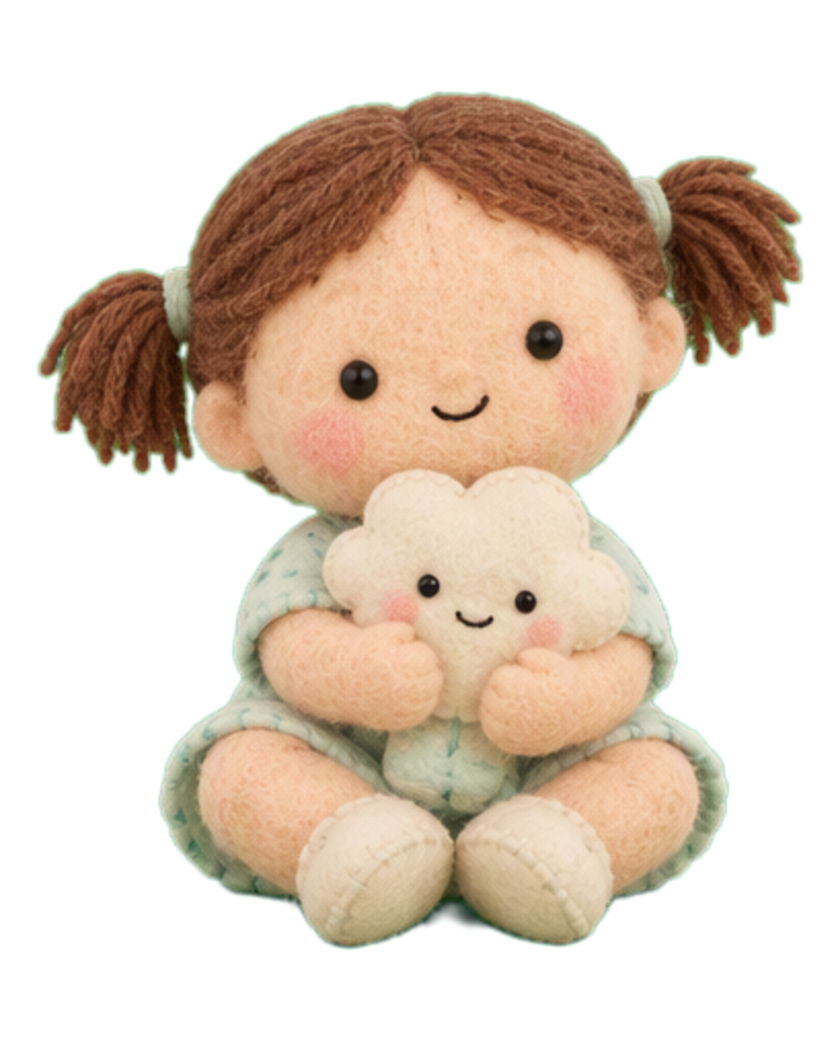
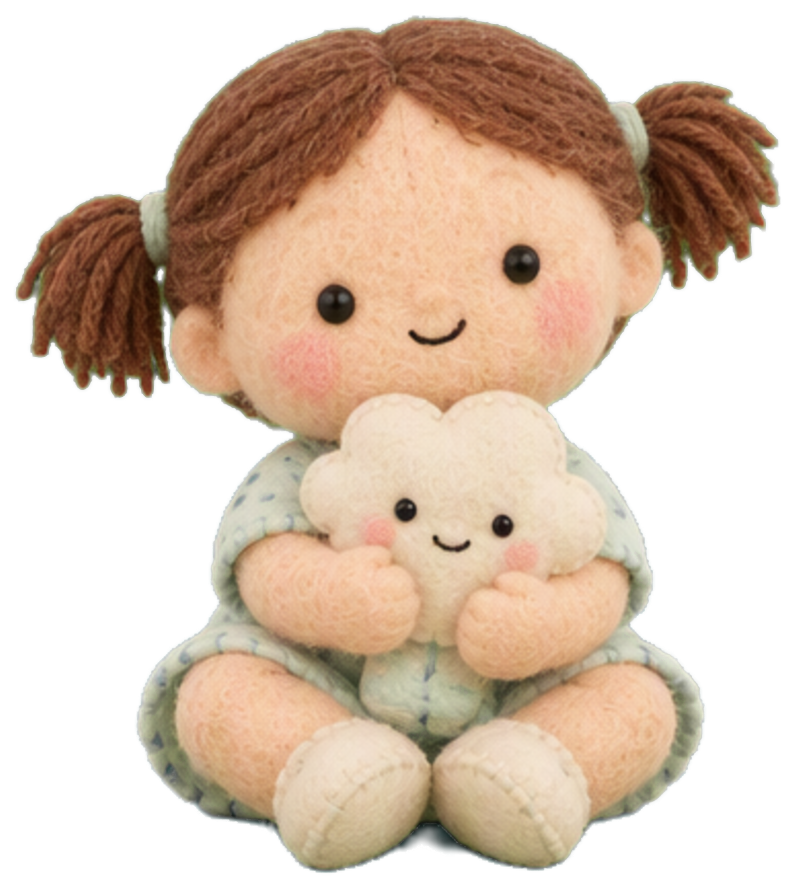
fix(assets): 角色图归一化去绿边+裁留白，修正浮空；睡姿按床面定位；恢复护士
- 新增 tooling/normalize.mjs（去绿边 + 裁不透明包围盒）
- 24 张角色图统一处理，图底边即脚底，同一基线
- 新增 stand="bed" 版式，cloud/drip 页睡姿摆到床上
- needle 页恢复 nurse__wave + kid:stand
- 封面三人组 bottom 回到 129（舞台地面线）

diff --git a/web/js/app.js b/web/js/app.js
@@ -316,9 +316,10 @@ function imgTag(asset, cls = '') {
   return `<img class="${cls}" src="${asset.src}" alt="${escapeHTML(asset.alt || '')}" loading="lazy" />`;
 }
 
-function propsHTML(props) {
+function propsHTML(props, stand) {
   if (!props?.length) return '';
-  return `<div class="page__props">${props.map((p) => imgTag(p)).join('')}</div>`;
+  const cls = stand ? ` page__props--${stand}` : '';
+  return `<div class="page__props${cls}">${props.map((p) => imgTag(p)).join('')}</div>`;
 }
 
 function pageHTML(page, book) {
@@ -364,7 +365,7 @@ function pageHTML(page, book) {
     const standCls = page.stand === 'high' ? ' page--stand-high' : '';
     return `<div class="page page--full${standCls}" data-density="soft">
       <div class="page__inner">
-        <div class="page__img">${imgTag(page.image)}${propsHTML(page.props)}</div>
+        <div class="page__img">${imgTag(page.image)}${propsHTML(page.props, page.stand)}</div>
         <div class="page__caption">
           <h3 class="page__title">${escapeHTML(page.title)}</h3>
           <p class="page__text">${escapeHTML(page.text)}</p>
@@ -391,7 +392,7 @@ function pageHTML(page, book) {
        </div>`
     : '';
 
-  const imageHTML = `<div class="page__img page__img--h">${imgTag(page.image)}${propsHTML(page.props)}</div>`;
+  const imageHTML = `<div class="page__img page__img--h">${imgTag(page.image)}${propsHTML(page.props, page.stand)}</div>`;
 
   if (page.layout === 'image_left') {
     return `<div class="page page--imgleft" data-density="soft">

diff --git a/web/css/book.css b/web/css/book.css
@@ -97,6 +97,25 @@
 
 .page__props img:nth-child(2) { height: 92%; max-width: 46%; }
 
+/* 床面定位：睡姿立牌摆在床上，不按脚底贴边（cloud/drip 页用 stand="bed"） */
+.page__props--bed {
+  inset: 0;
+  height: auto;
+  align-items: flex-start;
+  justify-content: center;
+  padding: 0;
+}
+
+.page__props--bed img {
+  height: auto;
+  width: 56%;
+  max-width: 56%;
+  margin-top: 12%;
+  margin-left: 12%;
+  object-position: center top;
+  transform: none;
+}
+
 /* 全幅页：双立牌并排站在文字卡上方，脚被卡片自然遮住 */
 .page--full .page__props { bottom: 26%; }
 
@@ -240,7 +259,7 @@
 .page__cover-cast {
   position: absolute;
   left: 20px; right: 20px;
-  bottom: 152px;
+  bottom: 129px;
   z-index: 2;
   display: flex;
   align-items: flex-end;

diff --git a/HANDOFF.md b/HANDOFF.md
@@ -474,3 +474,22 @@ text/evidence/colophon/badge all match headings; flip bar label too. Panel conso
 - 封面三人组：height 148 → 176，bottom 129 → 152（脚踩在标题牌上沿，不再被牌面吞掉）。
 
 未用上的素材：`dad__*`、`friend__*`、`villain_dino__back/shy/sleep`。要用 dad 需要再加一个"家长性别"选择 + `parent:*` 展开规则。
+
+---
+
+## 19. 修正（Kestrel）：人物浮空 / 床上没人 / 护士消失
+
+三个症状，三个不同根因：
+
+**1. 人物浮空** —— 24 张角色图是分别生成的，每张的透明留白不同。按 `height` 摆放时"图底边"不等于"脚底"，于是有人站地上、有人浮半空。
+- 新增 `tooling/normalize.mjs`：逐张 ①去绿边（绿通道高于 R/B 的像素压回中性，绿差大的同时削 alpha）②裁到不透明包围盒（阈值 12/255，留 2% 呼吸位）。处理后图底边即脚底，`height` 才等于视觉高度。
+- 原图备份在 `assets/_characters_backup/`（已 gitignore）。
+
+**2. 床上没人** —— 上一轮我把 `cloud` 页 props 清空、场景换成空床特写，结果是空床。
+- 新增 `stand: "bed"` 版式：睡姿立牌按"床面"定位（居中、上留 12%、右移 12%、宽 56%），不按脚底贴边。
+- `appendectomy` / `tonsillectomy` 的 `cloud` 页、`injection` 的 `drip` 页改为 `kid:sleep` + `stand: "bed"`。
+
+**3. 护士消失** —— 同样是我上一轮把 `needle` 页 props 清空导致的，不是素材缺失。
+- `needle` 页恢复 `nurse__wave + kid:stand`。
+
+封面基线与橱窗一致：三人组 `bottom: 129px`（舞台地面线 77%），height 176。
